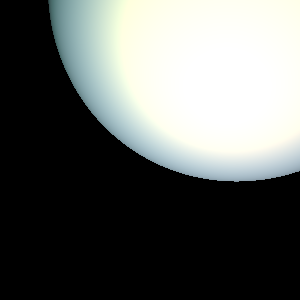
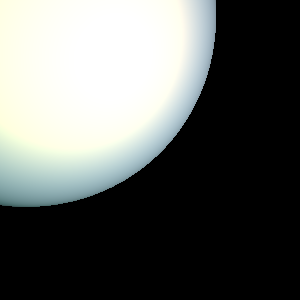
Cylinders work minus caps, rotation issue fixed

diff --git a/ray/surface/Cylinder.java b/ray/surface/Cylinder.java
@@ -107,7 +107,7 @@ public class Cylinder extends Surface {
 			outRecord.surface = this;
 			outRecord.t = t;
 
-			outRecord.normal.set(new Vector3(q.x, q.y, 0.0));
+			outRecord.normal.set(new Vector3(q.x-c.x, q.y-c.y, 0));
 			outRecord.normal.normalize();
 			outRecord.normal.scale(-1);
 

diff --git a/ray/Camera.java b/ray/Camera.java
@@ -73,8 +73,8 @@ public class Camera {
 			}
 		}
 
-		basisU.cross(temp,basisW);
-		basisU.scale(1/basisU.getMagnitude());
+		basisU.cross(viewUp,basisW);
+		basisU.normalize();
 		basisV.cross(basisW, basisU); 
 		initialized = true;
 	}
